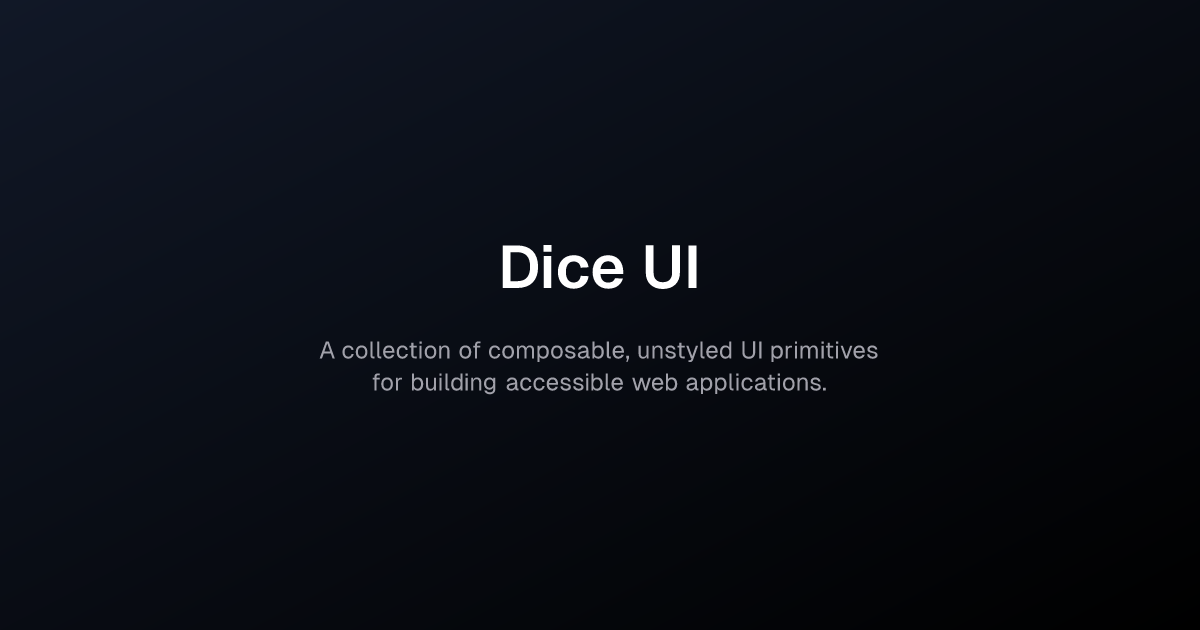
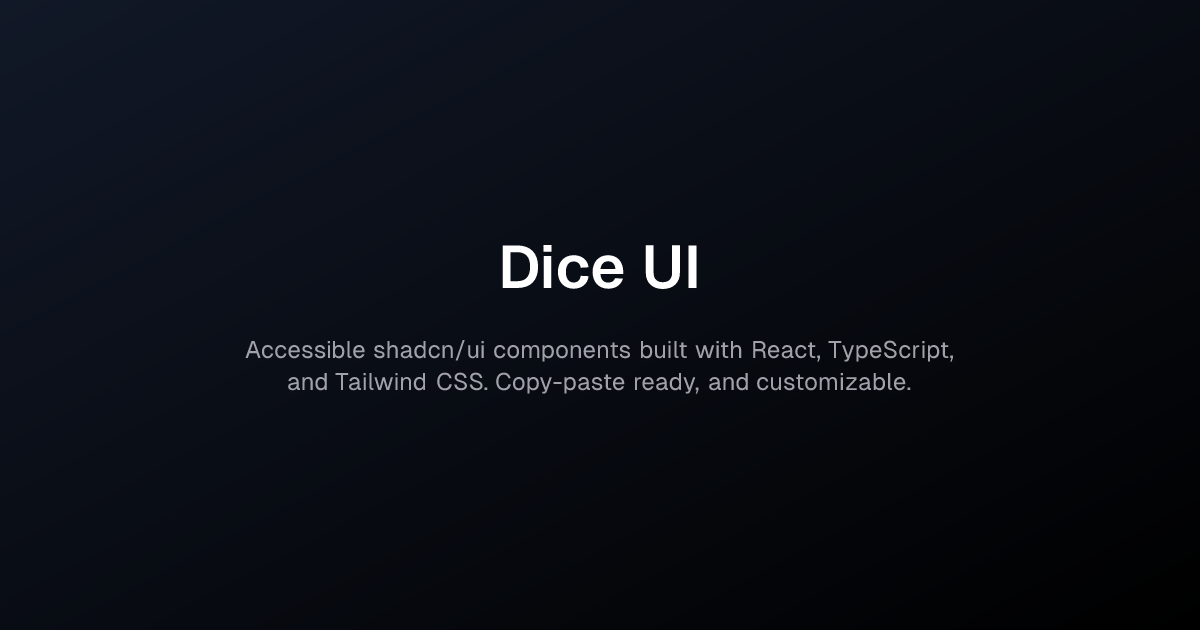
feat: update titles (#117)
* feat: update titles

* feat: update docs/content/docs/introduction.mdx

---------

Changed region(s): [[0.185, 0.5429, 0.8017, 0.6333]]

diff --git a/docs/app/(lobby)/page.tsx b/docs/app/(lobby)/page.tsx
@@ -6,12 +6,12 @@ import { siteConfig } from "@/config/site";
 export default function IndexPage() {
   return (
     <section className="container flex flex-col items-center justify-center gap-6 pt-6 pb-8 md:py-10">
-      <div className="flex max-w-5xl flex-col gap-8">
+      <div className="flex max-w-5xl flex-col items-center gap-4">
         <h1
-          className="animate-fade-up text-balance bg-linear-to-br from-foreground/80 to-muted-foreground bg-clip-text text-center font-bold text-5xl/[3rem] text-transparent leading-tight tracking-tighter opacity-0 drop-shadow-xs md:text-7xl/[5rem]"
+          className="animate-fade-up text-balance bg-linear-to-br from-foreground/80 to-muted-foreground bg-clip-text text-center font-bold text-4xl/tight text-transparent leading-tight tracking-tighter opacity-0 drop-shadow-xs md:text-5xl/tight"
           style={{ animationDelay: "0.20s", animationFillMode: "forwards" }}
         >
-          {siteConfig.name}
+          Accessible components for shadcn/ui
         </h1>
         <p
           className="max-w-2xl animate-fade-up text-balance text-center font-light text-lg text-muted-foreground opacity-0 md:text-xl"
@@ -20,11 +20,11 @@ export default function IndexPage() {
           {siteConfig.description}
         </p>
         <div
-          className="flex animate-fade-up justify-center gap-4 opacity-0"
+          className="flex animate-fade-up justify-center gap-4 pt-2 opacity-0"
           style={{ animationDelay: "0.40s", animationFillMode: "forwards" }}
         >
           <Button asChild>
-            <Link href="/docs">Documentation</Link>
+            <Link href="/docs/components/checkbox-group">View Components</Link>
           </Button>
           <Button variant="outline" asChild>
             <Link

diff --git a/docs/app/api/og/route.tsx b/docs/app/api/og/route.tsx
@@ -4,11 +4,6 @@ import { loadFonts } from "@/lib/fonts";
 
 export const runtime = "edge";
 
-export const size = {
-  width: 1200,
-  height: 630,
-};
-
 export async function GET(request: Request) {
   try {
     const { searchParams } = new URL(request.url);
@@ -45,7 +40,8 @@ export async function GET(request: Request) {
         </div>
       </div>,
       {
-        ...size,
+        width: 1200,
+        height: 630,
         fonts,
       },
     );

diff --git a/docs/config/site.ts b/docs/config/site.ts
@@ -3,7 +3,7 @@ export type SiteConfig = typeof siteConfig;
 export const siteConfig = {
   name: "Dice UI",
   description:
-    "A collection of composable, unstyled UI primitives for building accessible web applications.",
+    "Accessible shadcn/ui components built with React, TypeScript, and Tailwind CSS. Copy-paste ready, and customizable.",
   url: "https://diceui.com",
   ogImage: "https://diceui.com/opengraph-image.png",
   links: {
